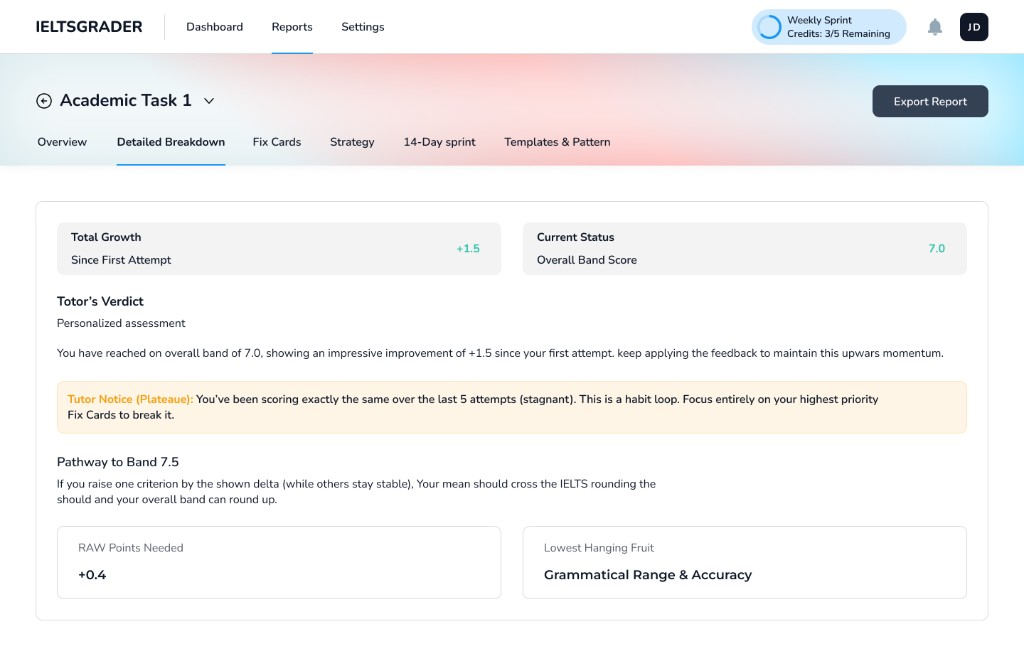
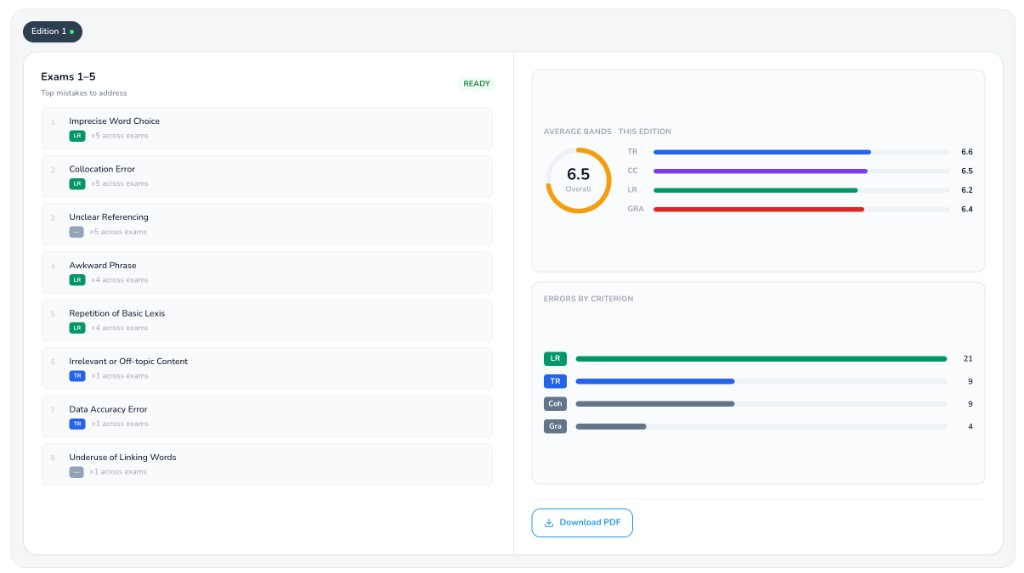
Narrow hero shots to detailed report, performance, and personalized learning.
Use the uploaded images in that order after the free text slide and drop the extra carousel slides.

diff --git a/ielts-grader-app/src/marketing/Hero.jsx b/ielts-grader-app/src/marketing/Hero.jsx
@@ -1,5 +1,5 @@
 import React, { useState, useEffect, useCallback } from 'react';
-import { FileCheck2, Clock, Info, Star, ChevronLeft, ChevronRight, Gift, BarChart3, Map, Target } from 'lucide-react';
+import { FileCheck2, Clock, Info, Star, ChevronLeft, ChevronRight, Gift, BarChart3, Target } from 'lucide-react';
 import { useGrade } from '../context/GradeContext';
 import { useAuth } from '../context/AuthContext';
 import { useNavigate } from 'react-router-dom';
@@ -20,10 +20,9 @@ const AVATARS = [
 ];
 
 const BENEFIT_BULLETS = [
-  { Icon: FileCheck2, title: 'Full tutor report', detail: 'Criterion scores + sentence-level fixes' },
+  { Icon: FileCheck2, title: 'Detailed report', detail: 'Criterion scores + scoring breakdown' },
   { Icon: BarChart3, title: 'Overall performance', detail: 'Trends across your exams toward your goal' },
-  { Icon: Map, title: 'Roadmap', detail: 'Clear pathway to your next half-band' },
-  { Icon: Target, title: 'Personalized next steps', detail: 'What to practice first—ranked for you' },
+  { Icon: Target, title: 'Personalized learning', detail: 'What to practice first—ranked for you' },
 ];
 
 const SLIDE_INTERVAL_MS = 5500;
@@ -39,7 +38,23 @@ const HERO_SLIDES = [
     accent: '#0EA5E9',
     mobileSub: (
       <>
-        Full report, roadmap & plan — <span className="text-[#0EA5E9]">free, no card</span>
+        Report, performance & plan — <span className="text-[#0EA5E9]">free, no card</span>
+      </>
+    ),
+  },
+  {
+    id: 'report',
+    type: 'shot',
+    cue: 'grade',
+    badge: 'Detailed report',
+    mobileBadge: 'Detailed report',
+    caption: 'Overall band, criterion scores, and a clear scoring breakdown—not just a number.',
+    image: '/images/hero/report.png',
+    imageAlt: 'Detailed IELTS report with criteria breakdown and scoring details',
+    accent: '#0D9488',
+    mobileSub: (
+      <>
+        Criterion scores & <span className="text-[#0EA5E9]">scoring details</span>
       </>
     ),
   },
@@ -60,50 +75,18 @@ const HERO_SLIDES = [
     ),
   },
   {
-    id: 'edition',
-    type: 'shot',
-    cue: 'both',
-    badge: 'Top mistakes across exams',
-    mobileBadge: 'Top mistakes',
-    caption: 'See what keeps repeating across exams—and which criterion they hit.',
-    image: '/images/hero/edition.png',
-    imageAlt: 'Edition summary of top mistakes and average band scores',
-    accent: '#F59E0B',
-    mobileSub: (
-      <>
-        Your top mistakes <span className="text-[#0EA5E9]">across exams</span>
-      </>
-    ),
-  },
-  {
     id: 'personalized',
     type: 'shot',
     cue: 'grade',
     badge: 'Personalized learning',
     mobileBadge: 'Your plan',
-    caption: 'Tutor verdict, plateau alerts, and the lowest-hanging fruit to raise next.',
+    caption: 'Your priority focus areas across exams—so you know exactly what to practice next.',
     image: '/images/hero/personalized.png',
-    imageAlt: 'Personalized tutor verdict and pathway to the next band',
+    imageAlt: 'Personalized learning priorities and average bands for this edition',
     accent: '#0EA5E9',
     mobileSub: (
       <>
         Next steps tailored to <span className="text-[#0EA5E9]">your essays</span>
-      </>
-    ),
-  },
-  {
-    id: 'roadmap',
-    type: 'shot',
-    cue: 'both',
-    badge: 'Skill roadmap',
-    mobileBadge: 'Roadmap',
-    caption: 'Skill growth over time plus mistake frequency—so you know what to lift next.',
-    image: '/images/hero/roadmap.png',
-    imageAlt: 'Skill growth chart and mistake frequency roadmap',
-    accent: '#0D9488',
-    mobileSub: (
-      <>
-        A clear path to your <span className="text-[#0EA5E9]">next half-band</span>
       </>
     ),
   },
